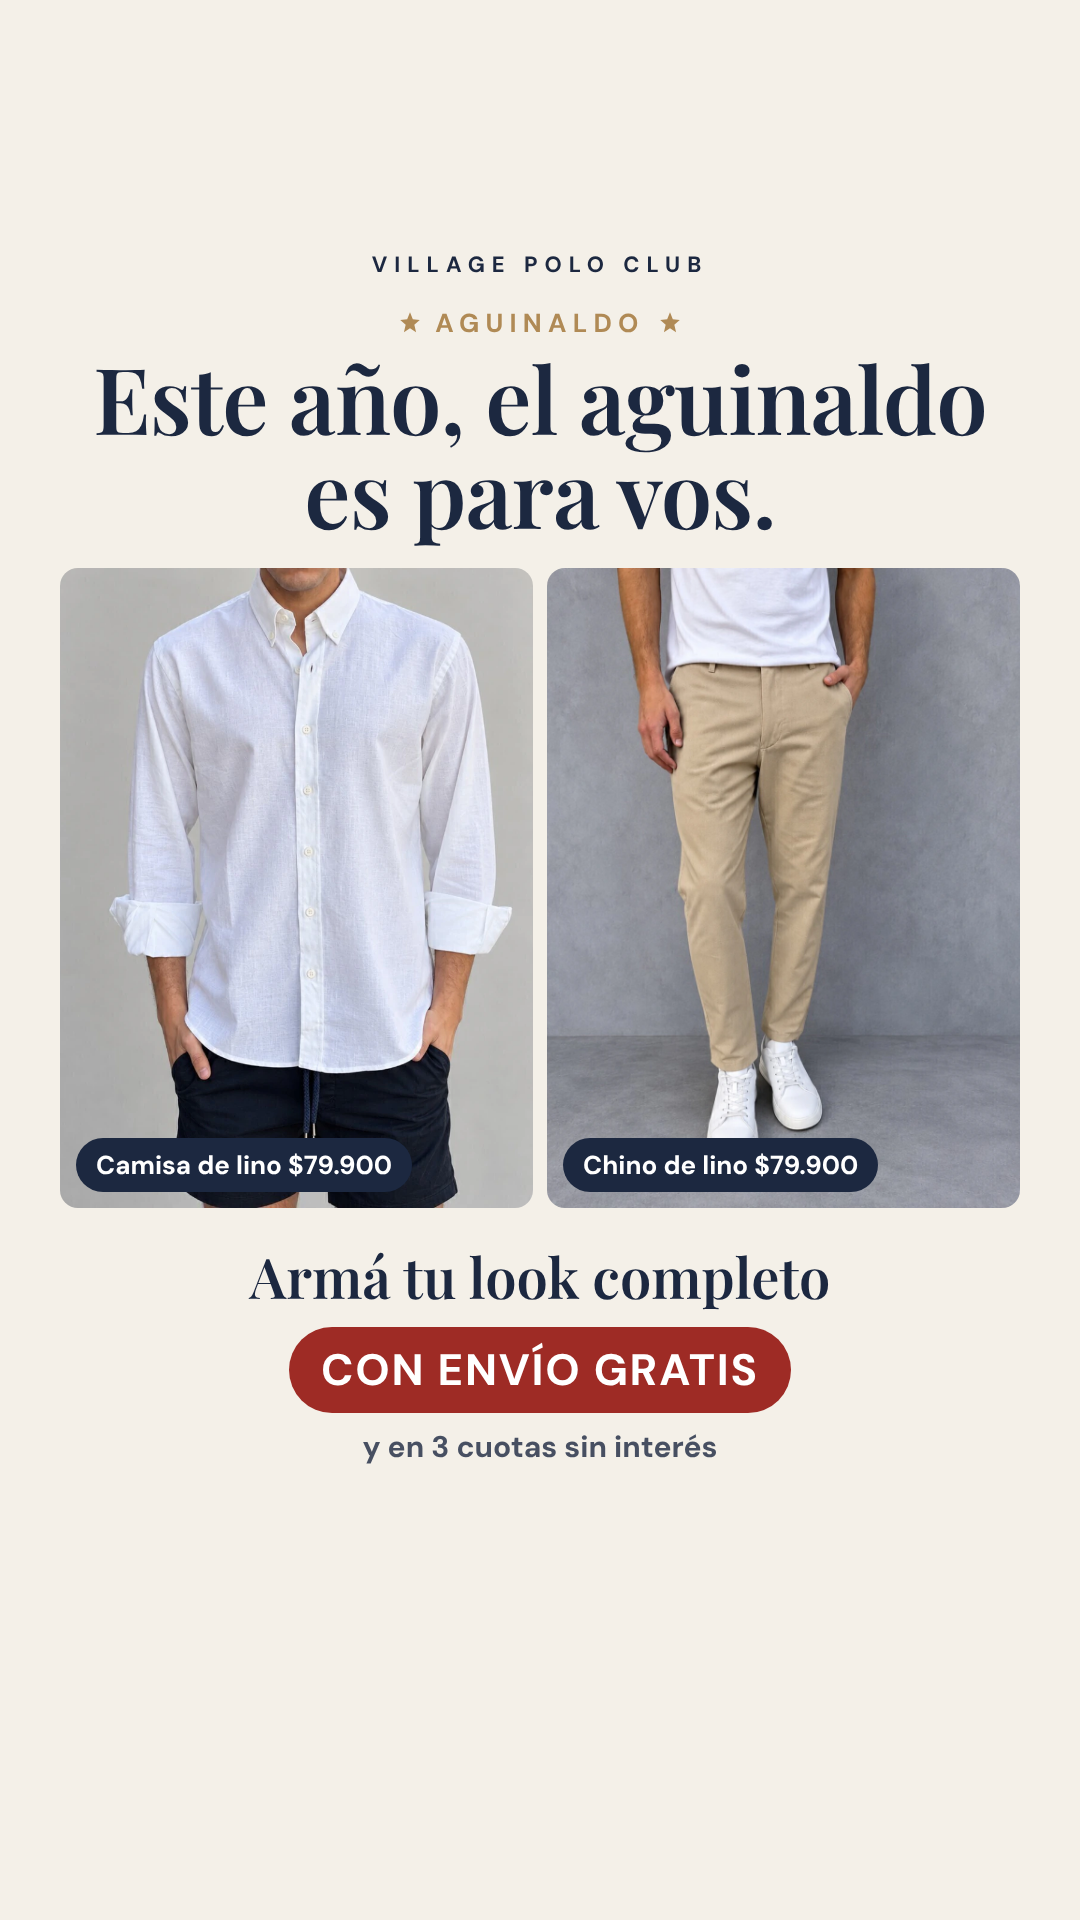
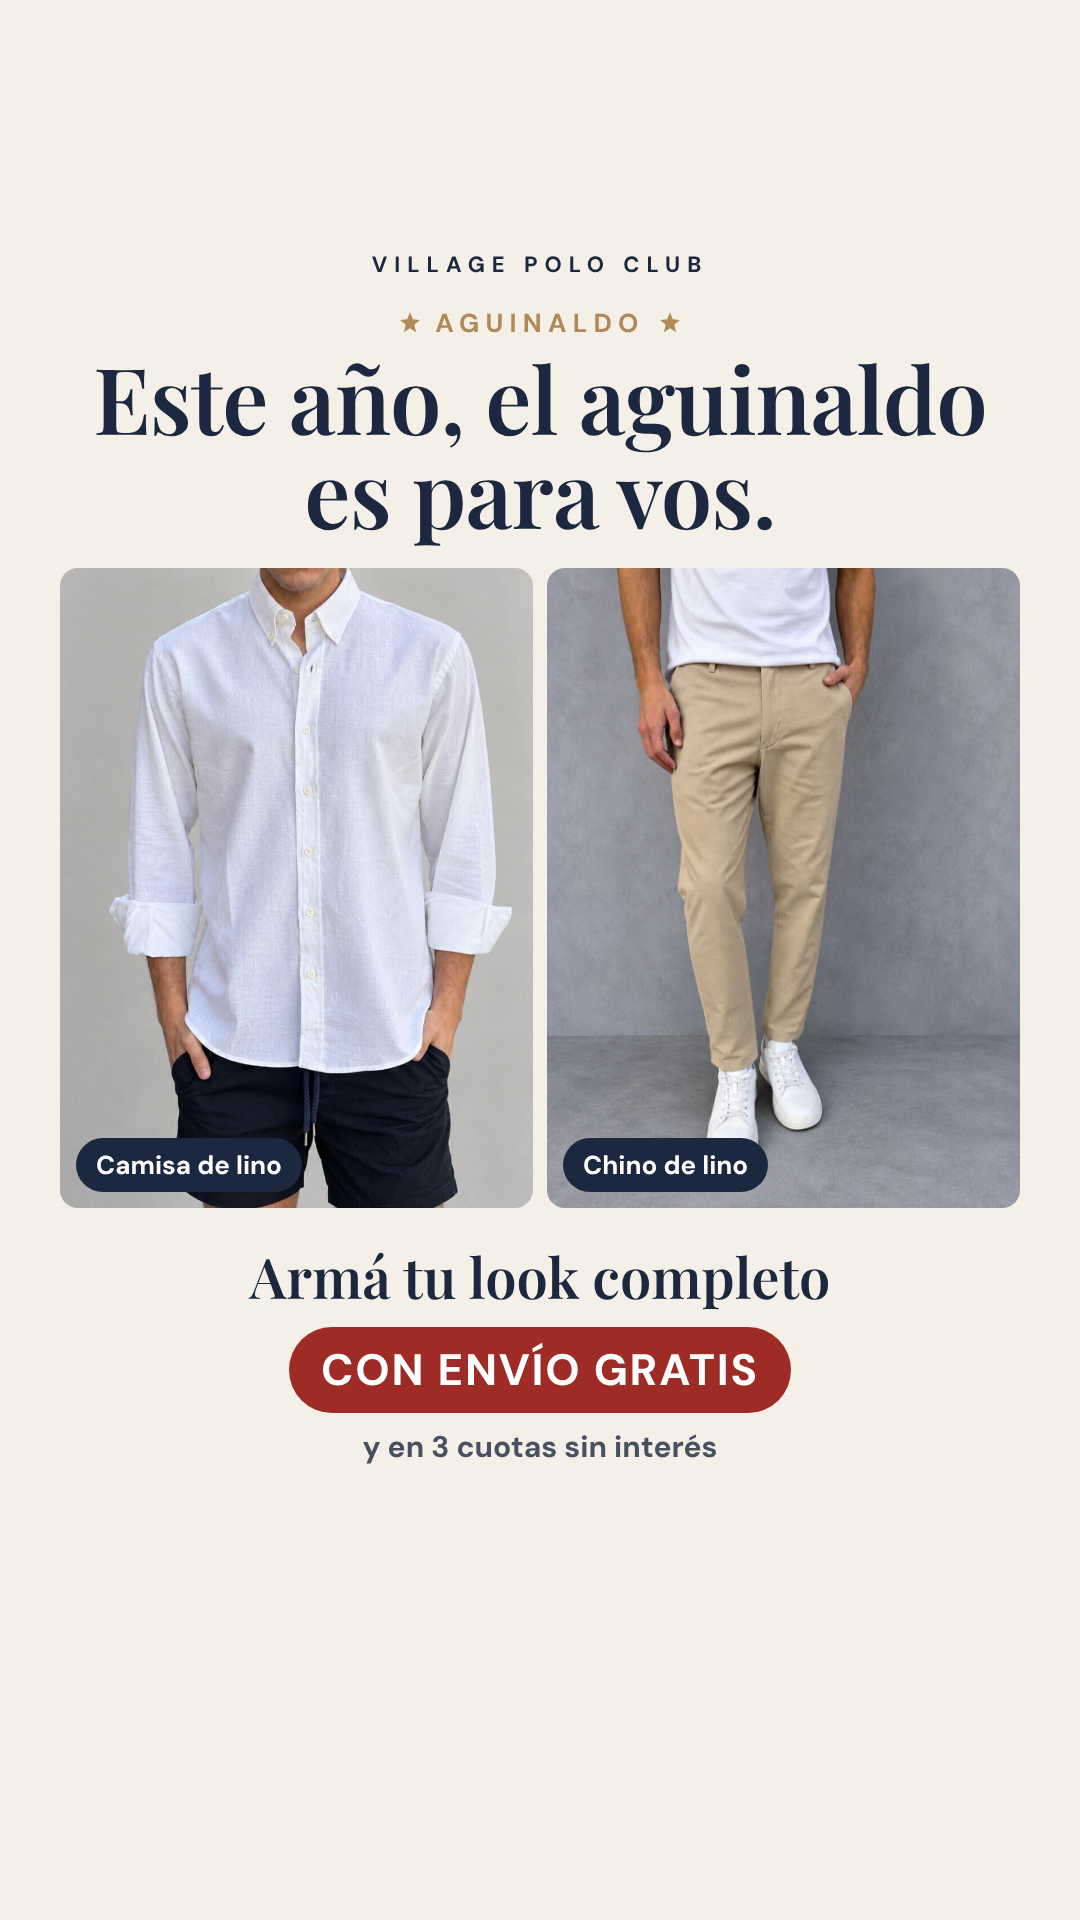
Village: F9 aguinaldo sin precios
Claude-Session: https://claude.ai/code/session_01BwB1NJ45564dBMrvfqcTE9

Changed region(s): [[0.2444, 0.5938, 0.3972, 0.625], [0.7028, 0.5938, 0.825, 0.625]]

diff --git a/village-polo-club/placas/fiestas/fuente/fiestas.py b/village-polo-club/placas/fiestas/fuente/fiestas.py
@@ -24,8 +24,8 @@ def f9(fmt):
     body=f"""{head(top)}<div style="position:absolute;top:{top+56}px;left:60px;right:60px;text-align:center">
 <div class="ey3">{STAR} Aguinaldo {STAR}</div><h1 style="font-size:{96 if not st else 92}px;margin:10px 0 30px">Este año, el aguinaldo es para vos.</h1>
 <div style="display:grid;grid-template-columns:1fr 1fr;gap:14px;height:{gh}px">
-<div class="box"><img class="ph" src="camisa-lino-algodon-blanco-1.webp" style="object-view-box:inset(22% 6% 0 6%)"><span class="tag">Camisa de lino $79.900</span></div>
-<div class="box"><img class="ph" src="pantalon-chino-lino-camel-claro-1.webp"><span class="tag">Chino de lino $79.900</span></div></div>
+<div class="box"><img class="ph" src="camisa-lino-algodon-blanco-1.webp" style="object-view-box:inset(22% 6% 0 6%)"><span class="tag">Camisa de lino</span></div>
+<div class="box"><img class="ph" src="pantalon-chino-lino-camel-claro-1.webp"><span class="tag">Chino de lino</span></div></div>
 <div class="tot" style="font-family:'PF';font-weight:600;font-size:56px">Armá tu look completo</div><div class="cuo">CON ENVÍO GRATIS</div><div class="cu2">y en 3 cuotas sin interés</div></div>"""
     extra=BASE+f""".tag{{position:absolute;left:16px;bottom:16px;background:{NAVY};color:#fff;font-weight:700;font-size:26px;padding:10px 20px;border-radius:40px}}
 .tot{{font-size:40px;font-weight:700;color:{NAVY};margin-top:30px}}.tot b{{font-family:'PF';font-size:60px;color:{RED}}}
